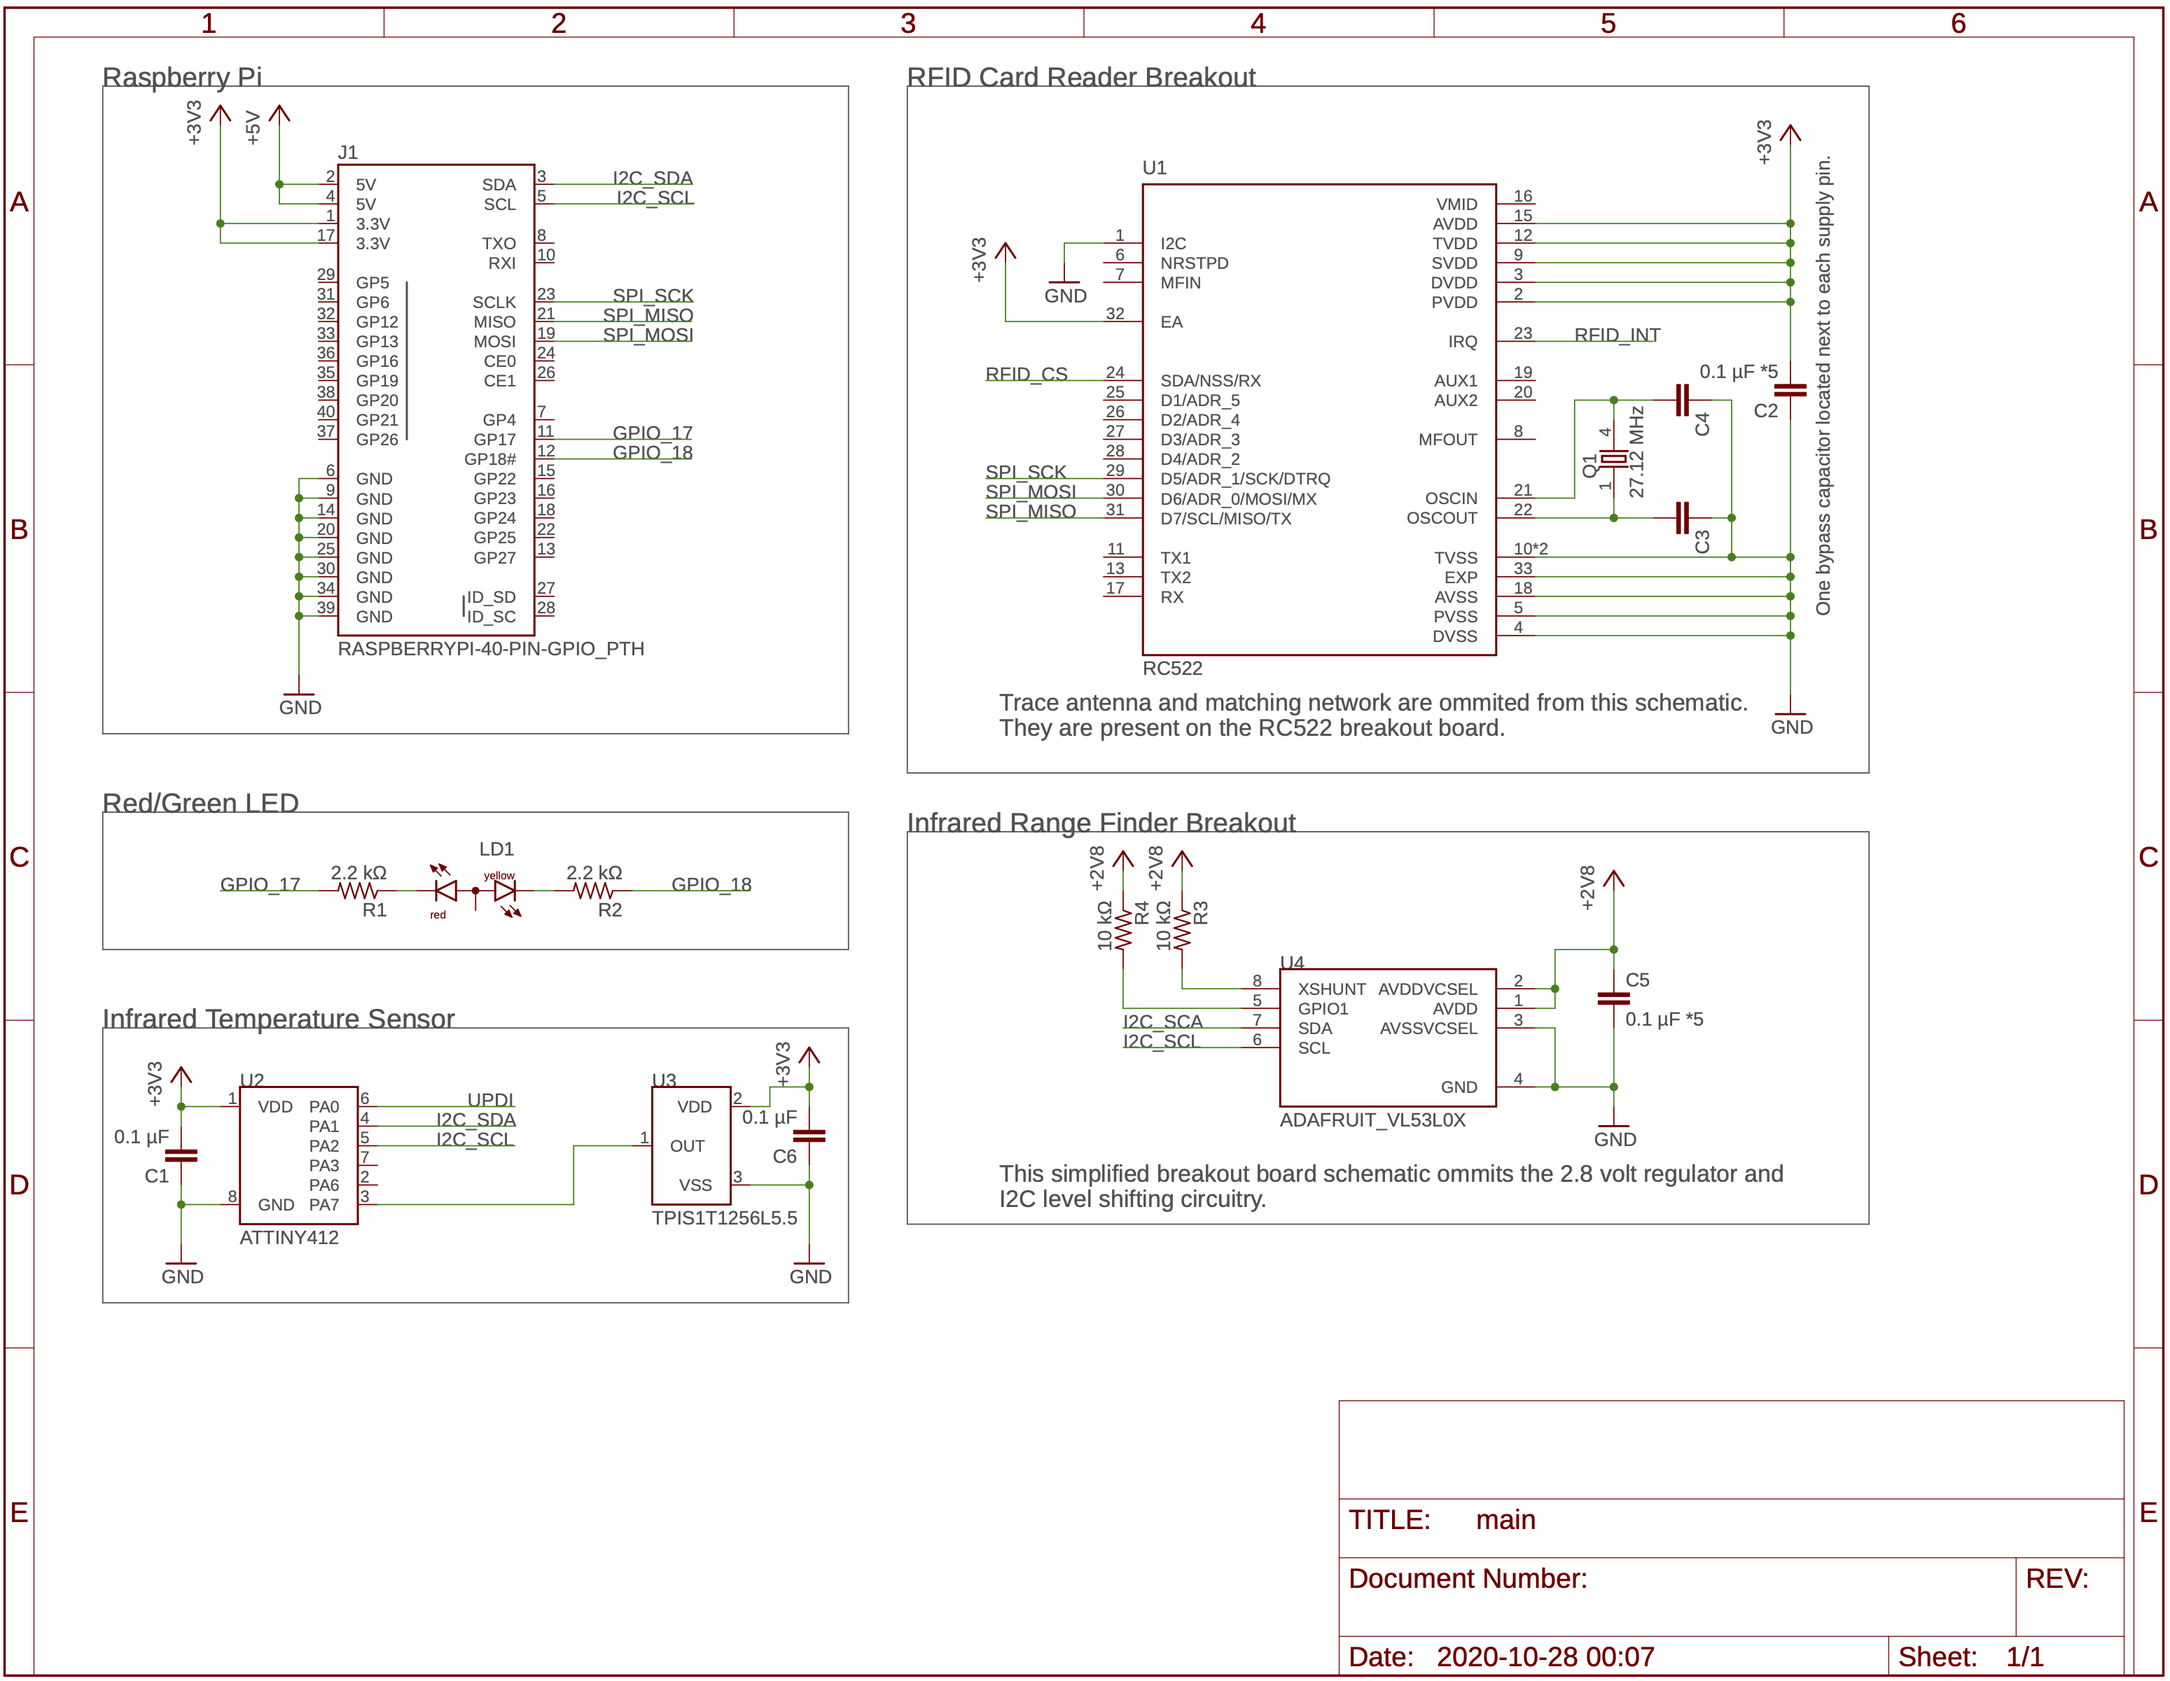
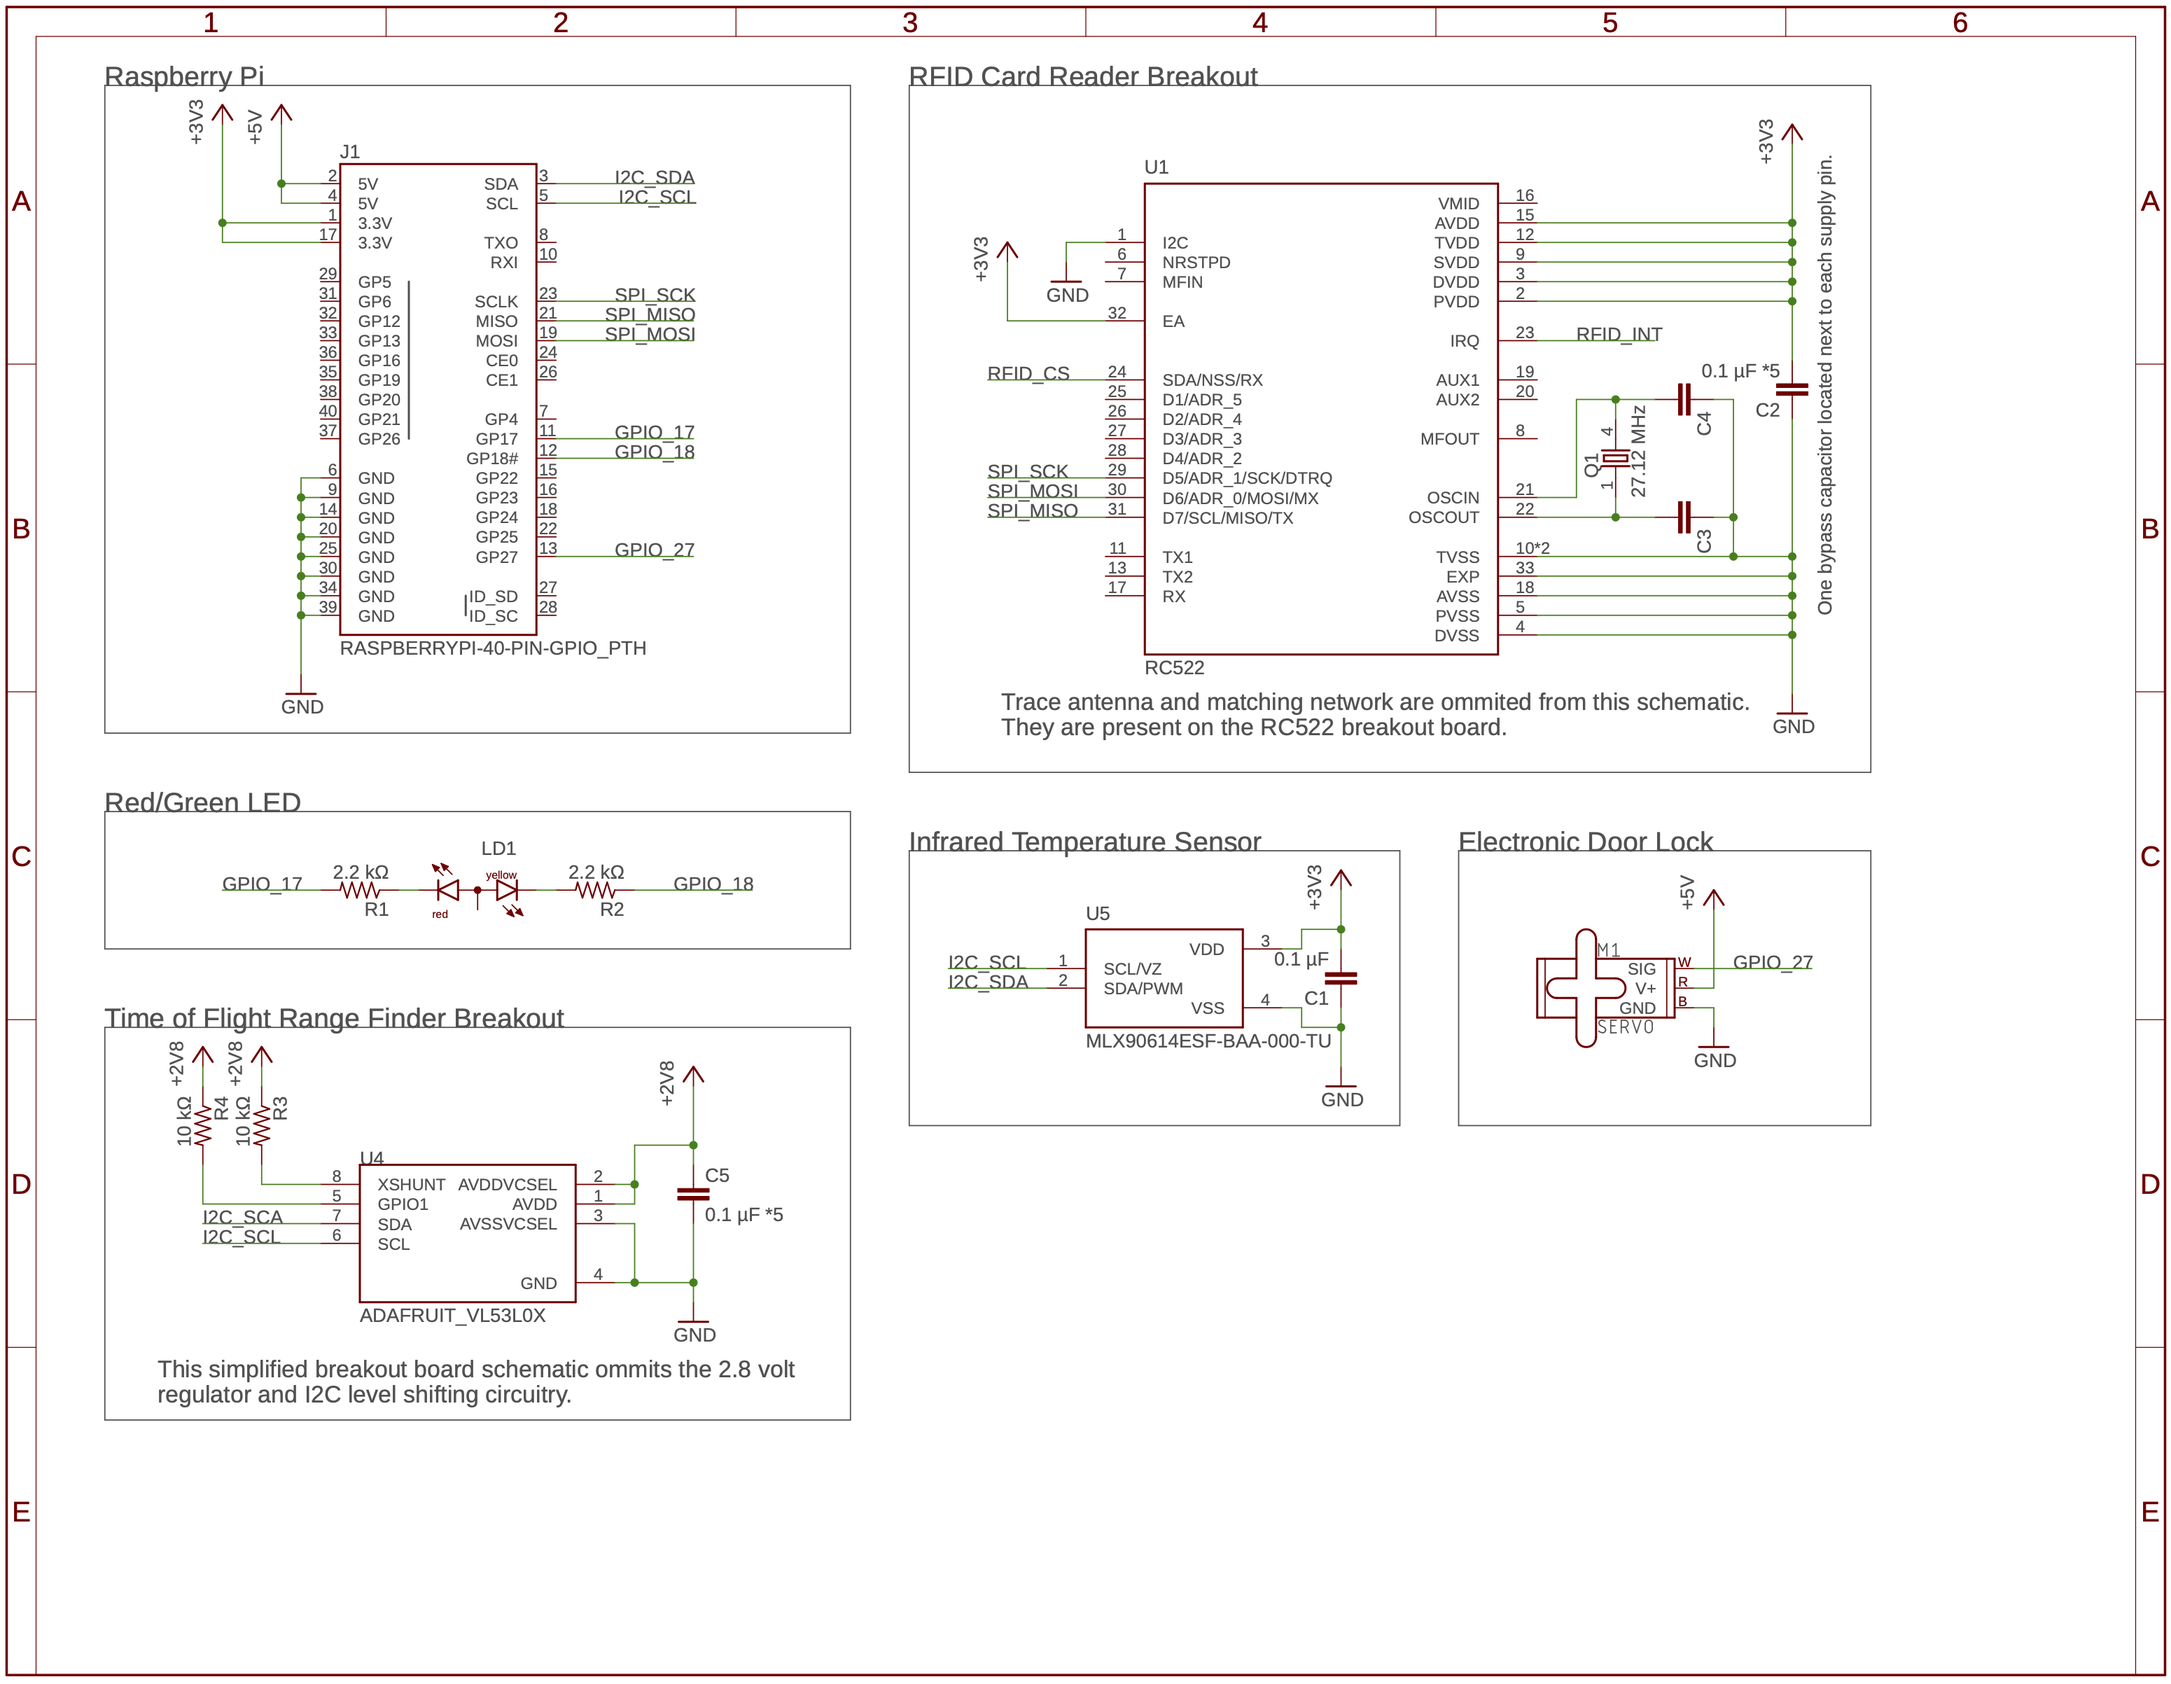
docs: Update hardware schematics and temperature sensor information in design document

diff --git a/design/sections/hardware.tex b/design/sections/hardware.tex
@@ -18,22 +18,19 @@ system. We have determined that a forehead temperature measurement using an
 infrared temperature sensor is the best way to obtain sufficiently accurate
 contactless temperature measurements.
 
-We plan to use the TPiS 1T 1256 L5.5 thermopile from Excelitas Technologies.
-This temperature sensor was chosen after a comparison of available infrared
+We plan to use the MLX90614 thermopile from Melexis Technologies. This
+temperature sensor was chosen after a comparison of available infrared
 temperature sensors.
 
-The TPiS 1T 1256 L5.5 offers medical grade accuracy within the temperature range
-expected for human skin. It also provides accurate ambient temperature
-measurements. The optics of the sensor provide a relatively narrow 5 degree field
-of view which is appropriate for measuring the fairly small target of a human
-forehead from a reasonable range.
+The MLX90614 offers medical grade accuracy within the temperature range expected
+for human skin. It also provides accurate ambient temperature measurements. The
+optics of the sensor provide a relatively narrow field of view which is
+appropriate for measuring the fairly small target of a human forehead from a
+reasonable range.
 
-The TPiS 1T 1256 L5.5 can be powered from the Raspberry Pi's 3.3 volt rail and
-features a single pin digital interface of readout of the temperature data. This
-digital interface requires more accurate timing than can easily be accomplished
-with a Raspberry Pi so a small 8 bit microcontroller will be used with minimal
-firmware that converts between the thermopile's digital interface and an I2C
-interface.
+The MLX90614 can be powered from the Raspberry Pi's 3.3 volt rail and
+features an I$^2$C serial interface, which is suitable for communication with a
+Raspberry Pi.
 
 Figure \ref{fig:ir-test-circuit} shows the test circuit for the infrared
 temperature sensor.
@@ -79,11 +76,14 @@ servo motor is the Adafruit Micro Servo.  This servo has 180 degrees of motion
 that can be traversed in 0.3 seconds.  The servo operates between 3V and 6V so
 it can be powered through the Raspberry Pi's 5V line.
 
+Figure \ref{fig:lock-test-circuit} shows the test circuit for the electronic
+door lock.
+
 \begin{figure}[!htb]
 \centering
-\includegraphics{uml/electronic-lock-schematic.png}
-\caption{Test Circuit for the Electronic Lock}
-\label{fig:electronic-lock-schematic}
+\includegraphics[width=0.75\textwidth]{images/lock-test-circuit.png}
+\caption{Test Circuit for Electronic Door Lock}
+\label{fig:lock-test-circuit}
 \end{figure}
 
 \subsection{Time of Flight Range Sensor}

diff --git a/design/sections/problem.tex b/design/sections/problem.tex
@@ -30,6 +30,5 @@ and management system whose primary features and their functionalities include:
     \item Server should request door unlock if user temperature is within range
     \item Time of flight sensor should send to server distance of user from temperature sensor
     \item User should be able to exit if server finds maximum threshold of employees in building
-    \end{itemize}
 \end{itemize}
 
